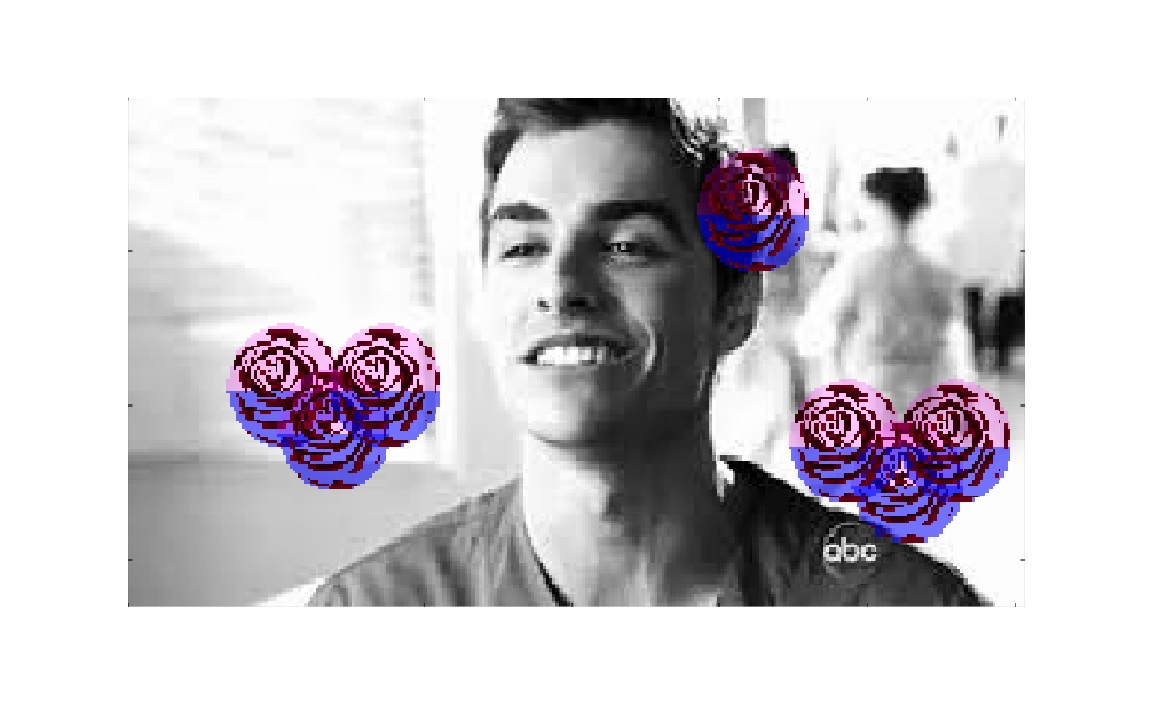
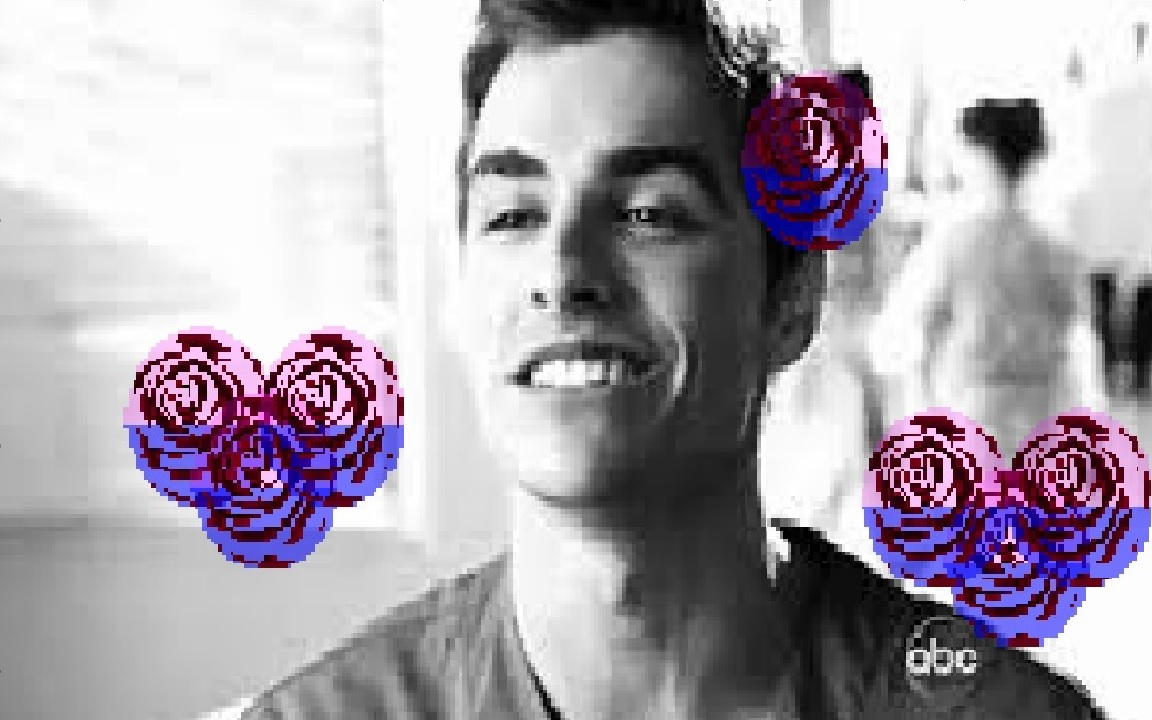
dave

diff --git a/my_website/index.html b/my_website/index.html
@@ -13,7 +13,7 @@
 <p>
 <p style="color:lavender;">Husband</p>
 </p>
-<img src="images/DAVE2.jpg" height="550">
+<img src="images/Dave_Franco.png" height="550">
 <p>
 <p style="color:MediumOrchid;">Dave Franco</p>
 </p>
